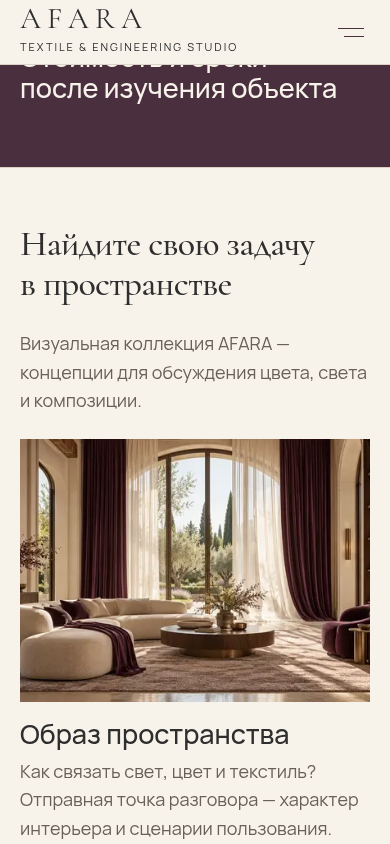
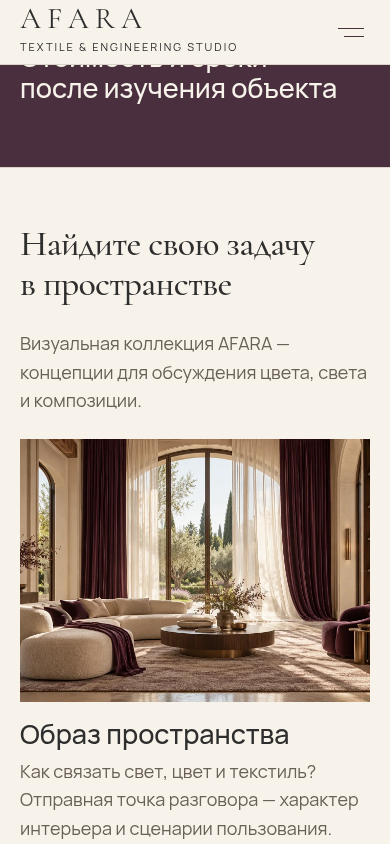
Fix collection-wide publication and publish AFARA editorial content

diff --git a/tests/editorial.acceptance.ts b/tests/editorial.acceptance.ts
@@ -43,7 +43,9 @@ test('editorial import preserves owner drafts and public content; publication an
   const residenceDraft = await p.findByID({ collection: 'pages', id: residence.id, draft: true, depth: 0 })
   const proposed = { hero: residenceDraft.hero, heroMobile: residenceDraft.heroMobile, heroAlt: residenceDraft.heroAlt, conceptLabel: residenceDraft.conceptLabel, sections: residenceDraft.sections, _status: 'published' as const }
   await assert.rejects(() => p.update({ collection: 'pages', id: residence.id, user, data: proposed }))
-  for (const id of new Set([residenceDraft.hero, residenceDraft.heroMobile])) {
+  const editorialMedia = (await p.find({ collection: 'media', depth: 0, limit: 1000 })).docs.filter(m => m.source.startsWith('AFARA editorial v1:'))
+  assert.equal(editorialMedia.length, 32)
+  for (const id of editorialMedia.map(m => m.id)) {
     assert.equal(typeof id, 'number')
     await assert.rejects(() => p.findByID({ collection: 'media', id: id as number, overrideAccess: false }))
     const m = await p.findByID({ collection: 'media', id: id as number })
@@ -52,6 +54,13 @@ test('editorial import preserves owner drafts and public content; publication an
     await p.update({ collection: 'media', id: id as number, user, data: { rightsConfirmed: true, _status: 'published' } })
   }
   await p.update({ collection: 'pages', id: residence.id, user, data: proposed })
+  // Publish the whole collection: row IDs must also be unique across different pages.
+  const drafts = (await p.find({ collection: 'pages', draft: true, depth: 0, limit: 1000 })).docs.filter(d => d._status === 'draft' && d.sections?.some(s => s.anchor === 'visual-collection'))
+  for (const draft of drafts) {
+    const { id, createdAt, updatedAt, ...data } = draft
+    void createdAt; void updatedAt
+    await p.update({ collection: 'pages', id, user, data: { ...data, _status: 'published' } })
+  }
   const knowledgeRecord = records.find(k => k.topic === 'editorial-restaurant-acoustics')!
   await assert.rejects(() => p.update({ collection: 'knowledge', id: knowledgeRecord.id, user, data: { approved: false, _status: 'published' } }))
   await p.update({ collection: 'knowledge', id: knowledgeRecord.id, user, data: { approved: true, _status: 'published' } })
@@ -66,7 +75,7 @@ test('editorial import preserves owner drafts and public content; publication an
     await page.locator('#visual-collection').scrollIntoViewIfNeeded()
     assert.equal(await page.getByText(collectionDisclosure, { exact: true }).count(), 1)
     await page.getByRole('button', { name: 'Сохранить идею', exact: true }).click()
-    assert.equal(await page.evaluate(() => navigator.clipboard.readText()), origin + '/chastnye-interery/zagorodnye-doma/#idea-editorial-residence')
+    assert.equal(await page.evaluate(() => navigator.clipboard.readText()), origin + '/chastnye-interery/zagorodnye-doma/#idea-editorial-chastnye-interery-zagorodnye-doma-residence')
     assert.equal(await page.evaluate(() => document.documentElement.scrollWidth <= innerWidth), true)
     await page.screenshot({ path: 'docs/screenshots/editorial-idea-360.png' })
     const login = await context.request.post(origin + '/api/users/login', { data: { email: admin.email, password } })

diff --git a/scripts/content-visuals.ts b/scripts/content-visuals.ts
@@ -79,7 +79,7 @@ export async function importVisuals(p: Payload, apply = false) {
       const hero = collection.find(i => i.id === 'home') || collection[0]
       const section: NonNullable<Page['sections']>[number] = {
         kind: 'details', anchor: 'visual-collection', heading: pagePath === 'home' ? 'Найдите свою задачу в пространстве' : hero.question,
-        body: collectionDisclosure, cards: collection.map(image => ({ id: `editorial-${image.id}`, title: image.title, body: `${image.question} ${image.description}`, image: images.get(image.id)!.desktop,
+        body: collectionDisclosure, cards: collection.map(image => ({ id: `editorial-${pagePath.replaceAll('/', '-')}-${image.id}`, title: image.title, body: `${image.question} ${image.description}`, image: images.get(image.id)!.desktop,
           page: publicPages.find(p => p.path === image.page)?.id, linkLabel: 'Обсудить пространство',
         })),
       }

diff --git a/docs/editorial-publication-2026-10-16.md b/docs/editorial-publication-2026-10-16.md
@@ -1,0 +1,24 @@
+# Публикация визуальной коллекции AFARA
+
+16 октября 2026, Москва. По уточнению владельца новые материалы опубликованы: предыдущий статический снимок содержал опубликованную старую версию CMS и поэтому не показывал подготовленные черновики. Это исправлено публикацией содержимого и новым экспортом.
+
+## Изменения
+
+- Опубликованы новые версии 15 страниц, 32 изображения-концепции и восемь одобренных редакционных ответов. На главной — новый hero, коллекция 16 самостоятельных изображений и «Сохранить идею»; у направлений — собственные изображения и вопросы.
+- Прежние тексты, заголовки, разделы, настройки сайта и три остальных страницы сохранены. Перед публикацией проверено, что новые черновики совпадают с первыми версиями импорта и не содержат последующих правок владельца. Резервная копия сохранена вне Git.
+- Концепции остаются концепциями, а не реальными кейсами. Происхождение сохранено в CMS. Публичное пояснение коллекции остаётся на страницах.
+- Всего опубликованы 18 страниц и 29 одобренных ответов. Девять прежних редакционных ответов остаются черновиками. Контакты и юридические документы не выдумывались.
+
+## Исправленный дефект
+
+Полная публикация выявила повторение новых идентификаторов карточек на главной и страницах направлений. Транзакция откатилась без частичной публикации. Идентификаторы теперь включают путь страницы; прежние опубликованные карточки не менялись. Проверка расширена: тест публикует все подготовленные страницы, а не одно направление. Архив обновлён до v2; первый выпуск сохранён как предыдущая версия.
+
+## Проверки
+
+- Расширенный `npm run test:editorial` прошёл на свежей восстановленной acceptance-копии: импорт, сохранение черновика владельца, повтор, публикация всей коллекции, права доступа, QR, буфер обмена и перенос вопроса без заявки.
+- TypeScript и ESLint прошли. Код приложения не менялся: исправлены импортёр и проверка публикации. Ранее проверенная Node production-сборка используется с новым опубликованным содержимым.
+- Основная публикация выполнена одной транзакцией. Перед commit сравнены старые заголовки, вводные тексты, CTA, SEO, порядок, родительские связи, все прежние секции и настройки сайта.
+- Публичная главная проверена в браузере на 360/390/1440 px: 16 изображений галереи, загруженный hero, без горизонтального переполнения. Снимок — `docs/screenshots/editorial-published-home-390.png`.
+- Статический экспорт проверяется отдельно перед размещением; состояние доставки записывается в публичном `deployment.json` вместе с новой отметкой публикации и контрольной суммой архива.
+
+Статический GitHub Pages по-прежнему не запускает CMS, консультанта, API и отправку заявок. Реальные контакты, документы, кейсы, данные специалиста и API-провайдер консультанта требуют прежних материалов и настроек. Бюджет первоначального JS этим исправлением не оптимизировался.

diff --git a/APPLY.md b/APPLY.md
@@ -2,6 +2,8 @@
 
 Пакет создан 16 октября 2026 по `EDITORIAL_RESEARCH.md` и явному поручению владельца. База патча: `9243217641cf55d1ab2d50df5051458aca14f773`. Это новый пакет, а не восстановленный неизвестный архив. Результаты применения в текущей среде — в `docs/editorial-validation-2026-10-16.md`.
 
+Выпуск v2 исправляет уникальность идентификаторов карточек между страницами. В архиве полный `afara-editorial.patch` предназначен для исходной базы выше; если уже применён первый выпуск commit `08117abcd581c9b7961aacd362fef139f118e429`, использовать вместо него `publication-fix.patch` с такой же предварительной проверкой `git apply --check`. Оба патча одновременно применять нельзя. По последующему поручению владельца коллекция опубликована: см. `docs/editorial-publication-2026-10-16.md`.
+
 ## 1. Проверить архив и изменения
 
 Распаковать архив вне рабочего checkout. Проверить `sha256sum -c SHA256SUMS` в папке пакета. В репозитории прочитать `AGENTS.md`, проверить текущий HEAD и `git status --short`; сохранить существующие изменения, включая незарегистрированные файлы. Не сбрасывать ветку и не удалять файлы владельца.
